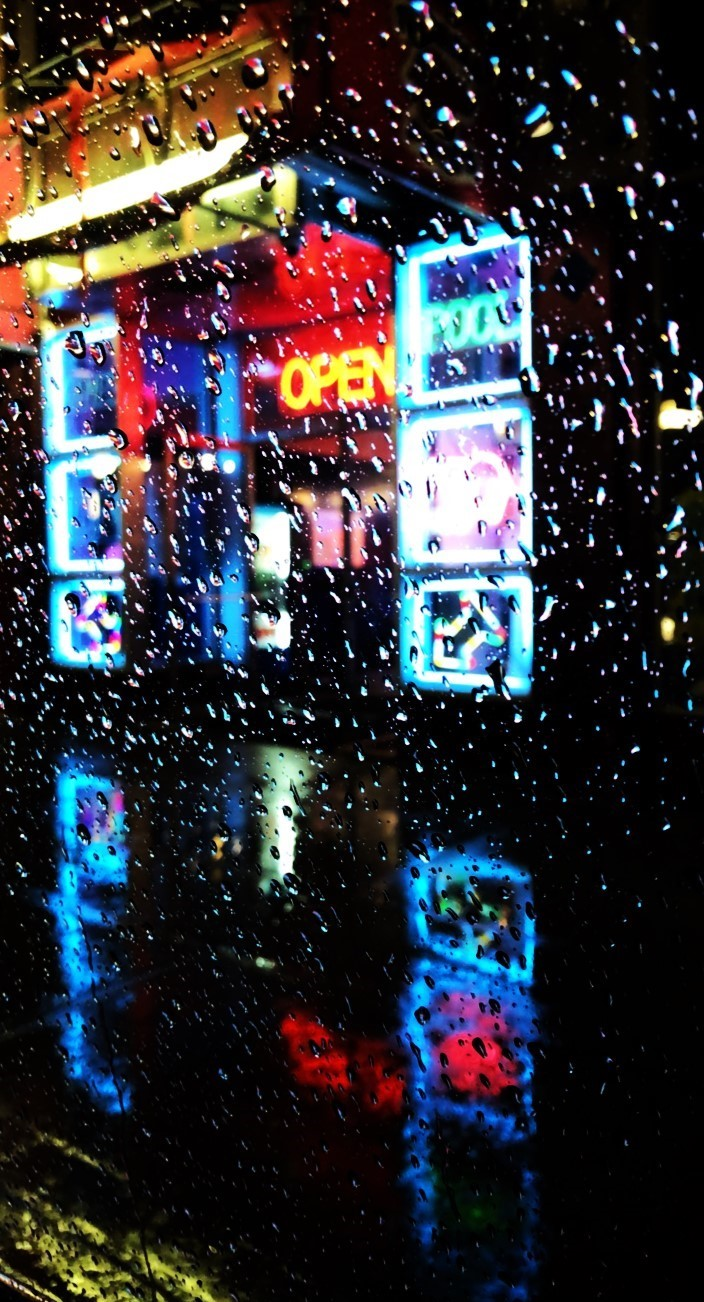
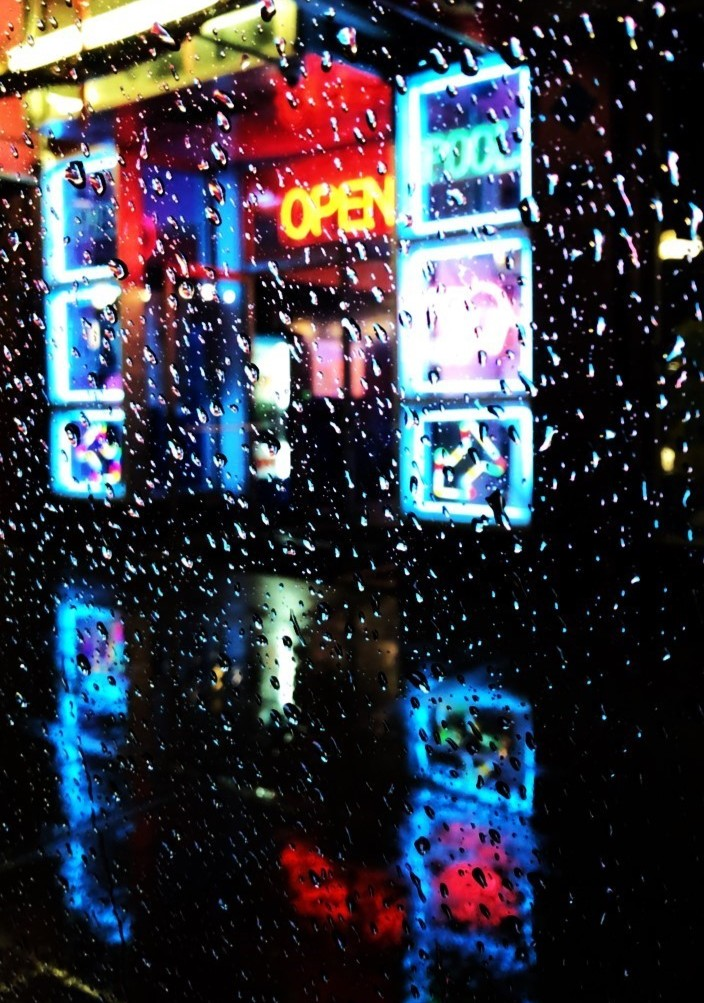
gallery adjustments

diff --git a/gallery.html b/gallery.html
@@ -50,12 +50,12 @@
                     <figcaption>SVETI STEFAN, MONTENEGRO</figcaption>
                 </div>
                 <div class="fig">
-                    <img src="media/pictures/santorini.jpg">
+                    <img src="media/pictures/santorini.jpg" class="compact-image">
                     <figcaption>SANTORINI - GREEK ISLANDS</figcaption>
                 </div>
                 <div class="fig">
-                    <img src="media/pictures/mushi.JPG">
-                    <figcaption>FALSE POTATO BEETLE - LEPTINOTARSA JUNCTA</figcaption>
+                    <img src="media/pictures/mushi.JPG" class="compact-image">
+                    <figcaption>FALSE POTATO BEETLE (LEPTINOTARSA JUNCTA) infected by the LANCET LIVER FLUKE (DICROCOELIUM DENDRITICUM)</figcaption>
                 </div>
                 <div class="fig">
                     <img src="media/pictures/switzerland.JPG">

diff --git a/style.css b/style.css
@@ -604,4 +604,11 @@ body.garage {
   .image-grid { grid-template-columns: 1fr; }
 }
 
+/* Compact image sizing */
+.gallery-container .box .fig img.compact-image {
+  max-width: 85% !important;
+  margin: auto !important;
+  display: block !important;
+}
+
 /* #endregion */
